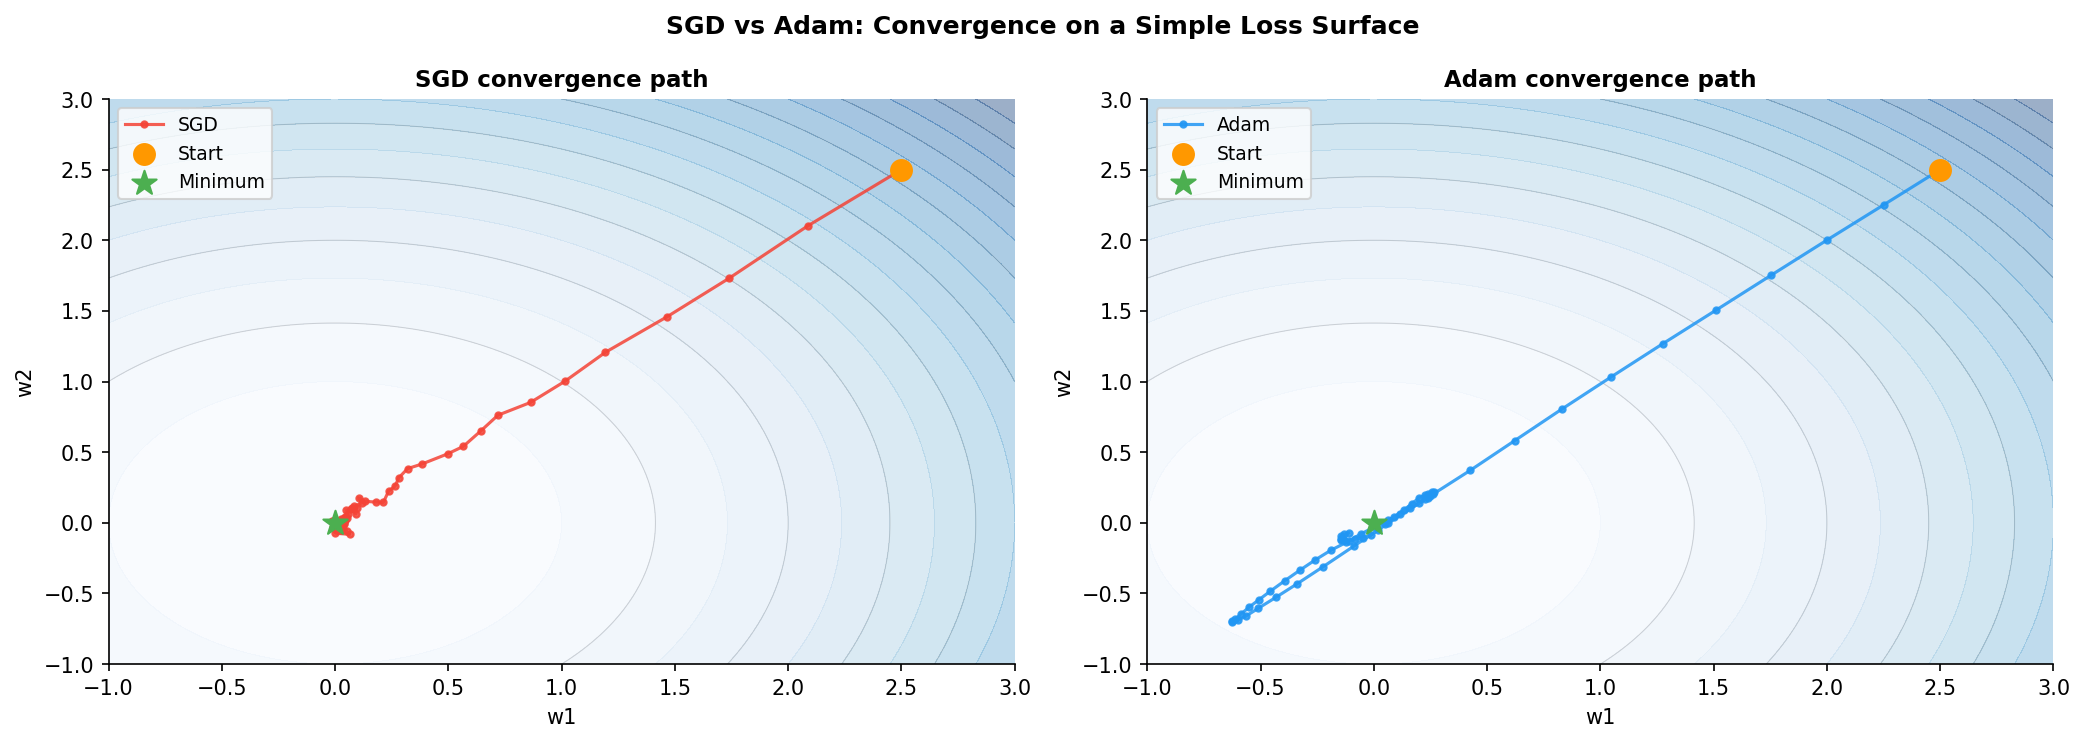
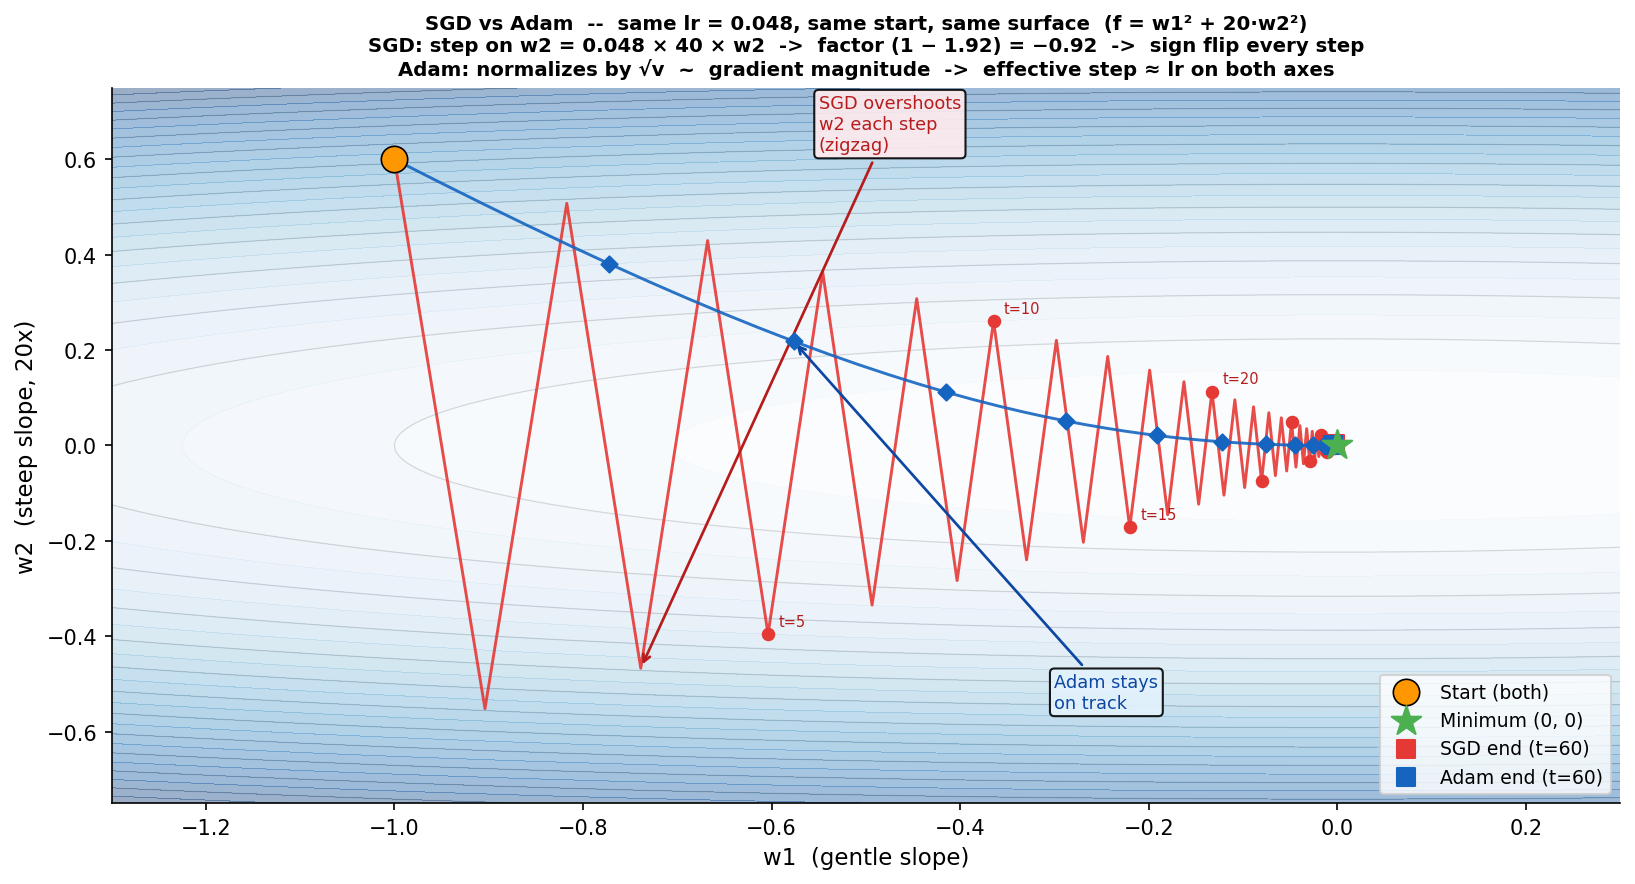
Added book Chapter 2 improvements: clearer Adam and gradient clipping explanations, fixed diagrams
- Rewrote Adam section with step-by-step bias correction derivation and concrete numerical example
- Added zero_grad explanation and humor to the concrete example block
- Fixed adam_vs_sgd.png: same lr for both optimizers, elongated bowl surface showing real zigzag
- Fixed gradient_clipping.png: both curves now start together, spike clearly disrupts only no-clip curve
- Fixed minibatch.png: removed dependency on old run_sgd function

diff --git a/book/chapter_02_learning.md b/book/chapter_02_learning.md
@@ -164,29 +164,130 @@ Plain SGD (Stochastic Gradient Descent):
 w = w - lr * gradient
 ```
 
-Works, but is slow and sensitive to learning rate choices.
+Works, but is slow and sensitive to learning rate choices. Every parameter gets the
+same step size, even if some dimensions need large steps and others need tiny ones.
 
-**Adam** (Adaptive Moment Estimation, 2014) is smarter. It tracks two things:
+**Adam** (Adaptive Moment Estimation, 2014) tracks two running statistics per
+parameter:
 
-- **m** (first moment): a moving average of the gradients, the general direction of travel
-- **v** (second moment): a moving average of the *squared* gradients, how much the direction varies
+- **m** (first moment): a moving average of recent gradients. This smooths out
+  noise and gives a sense of the general direction the parameter is heading.
+- **v** (second moment): a moving average of the squared gradients. This measures
+  how much the gradient fluctuates. A noisy dimension has large v; a stable one
+  has small v.
 
-Update rule:
 ```
 m = b1*m + (1-b1)*gradient          (b1 = 0.9 typically)
 v = b2*v + (1-b2)*gradient^2        (b2 = 0.999 typically)
+```
 
+Think of b1=0.9 as saying: "90% of my memory, 10% new information." After many
+steps, m is a weighted average of past gradients, with recent ones counting more.
+
+**Why is the update rule a fraction (m_hat / sqrt(v_hat))?**
+
+The division is the key idea. Consider two parameters:
+
+- Parameter A: gradient is consistently around 5.0. So m is ~5.0 and v is ~25.
+  Effective step: `lr * 5 / sqrt(25) = lr * 1.0`. Normal step.
+- Parameter B: gradient jumps between +10 and -10 every step. So m averages near
+  0 and v is large (~100). Effective step: `lr * 0 / sqrt(100)`, nearly zero.
+  Adam does not blindly follow noisy signals.
+- Parameter C: gradient is consistently tiny, 0.01. v is very small (~0.0001).
+  Effective step: `lr * 0.01 / sqrt(0.0001) = lr * 1.0`. A full step, despite
+  the tiny raw gradient. Adam does not ignore slow-moving dimensions.
+
+The division by sqrt(v) normalizes each parameter's step to roughly the same
+effective scale, regardless of how large or noisy its gradients are.
+
+**What are m_hat and v_hat? (bias correction)**
+
+Both m and v start at zero. In the first few steps they are too small: m has only
+seen one or two gradients and is still pulled toward its initial value of 0. This
+would make early steps too small.
+
+The bias correction fixes this by dividing by how much the running average has
+been "diluted" by the zero initialization:
+
+```
+m_hat = m / (1 - b1^t)     (t is the current step number)
+v_hat = v / (1 - b2^t)
+```
+
+At step t=1 with b1=0.9: divides by (1 - 0.9^1) = 0.1, so m_hat = 10 * m.
+This inflates the estimate back to what it would have been with no zero bias.
+
+By step t=100: b1^100 is tiny, so (1 - b1^100) is close to 1, and m_hat = m.
+The correction fades away as more real gradient history accumulates.
+
+The full update:
+```
 w = w - lr * m_hat / (sqrt(v_hat) + epsilon)
 ```
 
-The effect: Adam adapts the learning rate per parameter. Parameters that vary
-a lot get smaller steps. Stable parameters get larger steps. It self-calibrates.
+where `epsilon` (typically 1e-8) prevents division by zero if v_hat is 0.
+
+Enough theory. Let's watch them both take a single step and see who embarrasses
+themselves first.
+
+**Setup:** same lr = 0.048, surface f = w1^2 + 20*w2^2, start at (w1=-1, w2=0.6).
+Two parameters. One is on a gentle slope, one is on a cliff.
+
+Gradients at the start: dL/dw1 = 2*(-1) = -2, dL/dw2 = 40*(0.6) = +24
+
+SGD, first step:
+```
+w1 = -1.0 - 0.048 * (-2)  =  -1.0 + 0.096  =  -0.904   (good, small step)
+w2 =  0.6 - 0.048 * (24)  =   0.6 - 1.152  =  -0.552   (overshot: was +0.6, now -0.552)
+```
+w2 flipped sign. Next step it flips again. It zigzags.
+
+Adam, first step. The update rule is `w = w - lr * g / sqrt(v_hat)`.
+
+`v_hat` is Adam's estimate of how large the gradient typically is on that parameter.
+At t=1, v starts at 0, so the math simplifies cleanly:
+
+```
+v     = b2 * 0 + (1 - b2) * g^2  =  0.001 * g^2
+v_hat = v / (1 - b2^1)           =  0.001 * g^2 / 0.001  =  g^2
+```
+
+The `/ (1 - b2^t)` bias correction happens to cancel perfectly at t=1.
+So `v_hat = g^2`, which means `sqrt(v_hat) = |g|`.
+
+The update becomes `w = w - lr * g / |g|`. The gradient divided by its own size
+always gives exactly +1 or -1. So Adam takes a step of exactly `lr` in the
+gradient direction, no matter how big or small the gradient was.
+
+For w2 (gradient = +24, very large because the slope is steep):
+```
+sqrt(v_hat) = sqrt(24^2) = 24
+actual step = lr * gradient / sqrt(v_hat) = 0.048 * 24 / 24 = 0.048
+w2 = 0.6 - 0.048 = 0.552     (small controlled step, no overshoot)
+```
+
+For w1 (gradient = -2, small because the slope is gentle):
+```
+sqrt(v_hat) = sqrt((-2)^2) = 2
+actual step = lr * |gradient| / sqrt(v_hat) = 0.048 * 2 / 2 = 0.048
+w1 = -1.0 + 0.048 = -0.952   (same size step, even though gradient was 12x smaller)
+```
+
+Both parameters moved by exactly 0.048. SGD treated a cliff the same as a gentle
+hill and fell off it. Adam saw the cliff, divided by the cliff, and took a normal
+step. The gradient on w2 was 12 times larger than on w1, but Adam normalized each
+one by itself, so neither dimension gets to throw a tantrum.
+
+That is the whole mechanism: Adam cancels out gradient magnitude differences between
+parameters, leaving only direction and the shared lr.
 
 ![Adam vs SGD](images/adam_vs_sgd.png)
 
-*Both start at the same point and target the same minimum (green star).
-Adam's path is more direct. SGD's path is noisier and takes more steps to converge
-in this noisy setting.*
+*Same lr = 0.048, same start, same surface: f = w1^2 + 20*w2^2. The w2 axis is
+20x steeper. SGD: the update factor on w2 is (1 - lr*40) = -0.92, so w2 flips
+sign every step and zigzags. Adam: normalizes each gradient by the square root of
+its running average of squared gradients, so the effective step on both axes is
+approximately lr regardless of gradient magnitude. Step markers every 5 iterations.*
 
 **Why b1 = 0.5 in our GAN?**
 
@@ -200,17 +301,22 @@ faster responses to shifts in the adversarial dynamics.
 
 ![Gradient clipping](images/gradient_clipping.png)
 
-*Left: without clipping, a single large gradient spike at step 12 destroys the
-training run. With clipping, the spike is absorbed and training continues.
-Right: geometrically, clipping projects any gradient outside the unit sphere
-back onto its surface, preserving direction but capping magnitude.*
+*Left: a gradient spike at step 12 destroys training without clipping (red).
+With clipping the spike is absorbed and training continues (green).
+Right: each arrow is one gradient vector. Red dashed: original, too large,
+outside the circle. Green solid: the same gradient after clipping, scaled back
+to the boundary. The direction is identical. Only the length changed.*
 
 Sometimes gradients explode: enormous values that send parameters completely off
 track. This is especially common when unfreezing a frozen backbone mid-training,
 exactly what happens in Phase 2 of our uncertainty model.
 
-**Gradient clipping:** if the norm of the gradient vector exceeds a threshold,
-scale all gradients proportionally so the norm equals the threshold.
+The right diagram shows what clipping does to a single gradient vector. Imagine
+the model has millions of parameters, and each one has a gradient. Stack all those
+gradients into one big vector. Compute its length (the "norm"). If that length
+exceeds the threshold, shrink the entire vector proportionally until its length
+equals the threshold. Every gradient gets scaled by the same factor, so their
+relative sizes stay the same. The direction of the update does not change.
 
 ```python
 torch.nn.utils.clip_grad_norm_(model.parameters(), max_norm=1.0)
@@ -231,6 +337,18 @@ We apply this after every backward pass on the generator during uncertainty trai
 5. Clip gradients: clip_grad_norm_(G.parameters(), max_norm=1.0)
 6. Update:         optimizer.step()
 ```
+
+**Step 3: why zero the gradients?**
+
+PyTorch does not clear gradients automatically between iterations. Every call to
+`loss.backward()` adds the new gradients on top of whatever is already stored in
+each parameter's `.grad` attribute. If you forget to zero them, the gradients from
+iteration 1 are still there during iteration 2, and you end up applying the sum
+of both iterations' gradients in the update. The model sees a mix of current and
+stale information and behaves erratically.
+
+`optimizer.zero_grad()` sets every `.grad` to zero before the new backward pass,
+ensuring each update is based only on the current batch.
 
 Repeat 650 times per epoch, 20 epochs per stage. That is 13,000 iterations
 per training stage, and roughly 3.5 hours on a T4 GPU.
